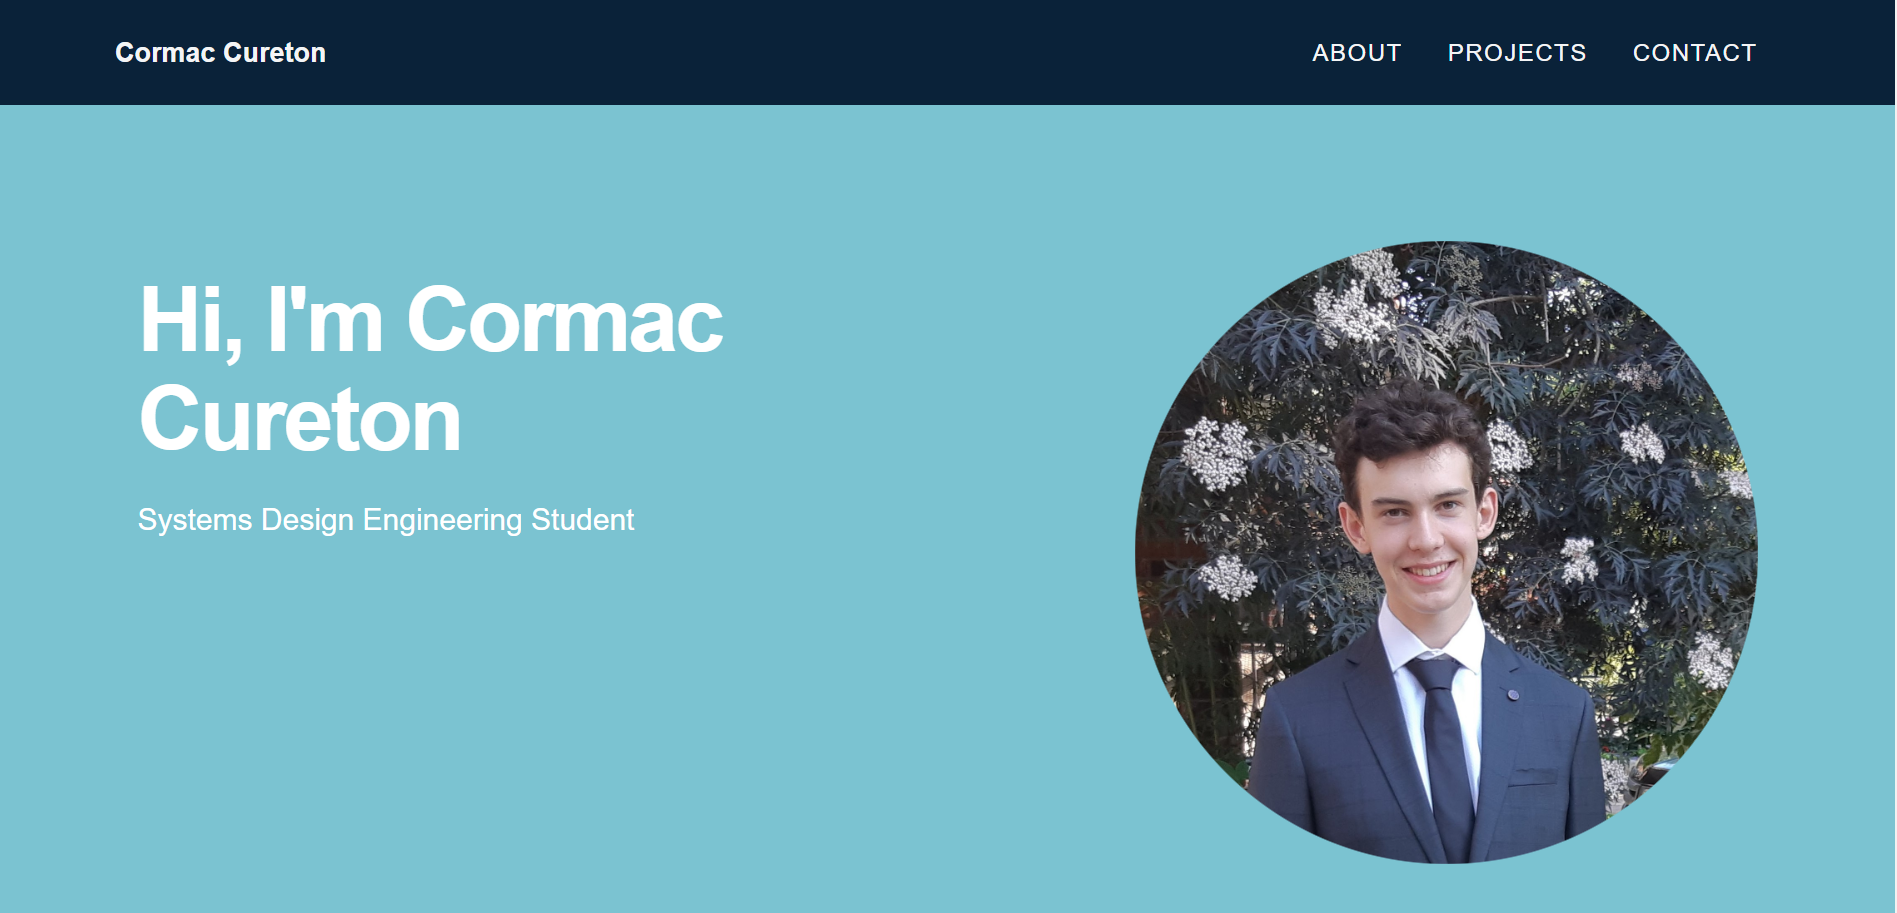
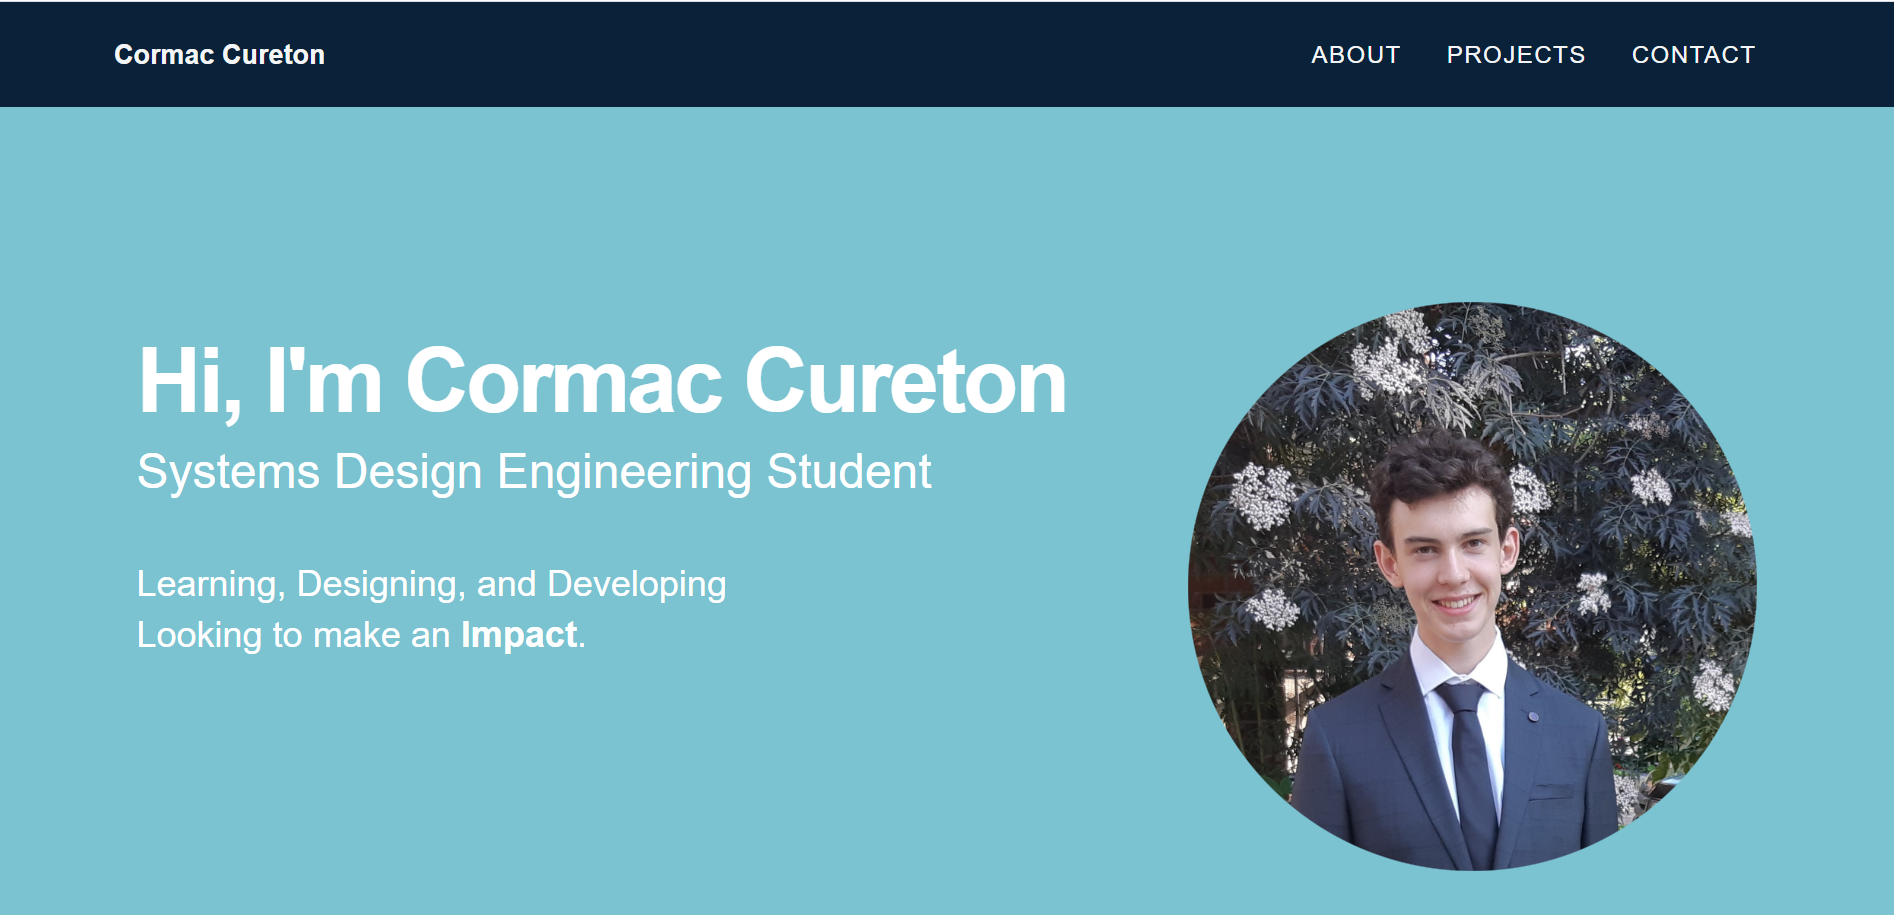
Changed the header layout, updated about me summary, added extra project

diff --git a/personal-website/src/components/projects.js b/personal-website/src/components/projects.js
@@ -1,5 +1,7 @@
 import React, { Component } from 'react'
 import personalWebsite from '../img/Personal-Website.png'
+import metronomeApp from '../img/Metronome App.jpg'
+import baseballJava from '../img/Baseball-Java.png'
 
 export default class Projects extends Component {
     render(){
@@ -24,9 +26,14 @@ export default class Projects extends Component {
                                         <p className = "h5">
                                             A landing place for all professional sites and place to showcase a portfolio of my personal projects.
                                             <br></br><br></br>
-                                            As well, my introduction to any web development. This site gave me an introduction to React and CSS and a familiarity with the Bootstrap framework.
-                                            I started from an HTML + CSS template then adopted it to react, modified the site and CSS from there. 
-                                            In future, I would probably look for a pure Bootstrap template to start or build from scratch.
+                                            I built this site with React and CSS using the BootStrap Framework. Started with a HTML + CSS template then
+                                            adapted it to React and modified the content, layout, and styling.
+                                            <br></br><br></br>
+                                            Take a look at the final product
+                                            <a className = "page-scroll" href = "#header"> here </a>
+                                            or look at the  
+                                            <a href ="https://github.com/Cormac-C/Personal-Website" target="_blank"> code </a>
+                                            behind the scenes
                                         </p>
                                     </div>
                                 </div>
@@ -48,18 +55,56 @@ export default class Projects extends Component {
                                 <div className = "col-md-4">
                                     <div className = "project-text">
                                         <p className = "h5">
-                                            An android app with the features I want blah blah blah.
+                                            A Metronome app with tap-tempo functionality. The tempo (speed) is calculated based on the spacing between a user tapping on a button.
                                             <br></br><br></br>
-                                            Android studio java backend etc. multi-threading...
+                                            I had written the main functionality as a Java applet with a Swing GUI. I adapted it to an Android App using Android Studio as an oppurtunity to learn about mobile development.
+                                            Note: This project is still in progress, I am working on handling the audio in a separate thread so that the UI stays responsive while audio plays.
+                                            <br></br><br></br>
+                                            Take a look at the 
+                                            <a href ="https://github.com/Cormac-C/Metronome-App" target="_blank"> code </a>
+                                            in progress, final product will be added once I reach my minimum viable product.
                                         </p>
                                     </div>
                                 </div>
                                 <div className = "col-md-5">
-                                    <img src = {personalWebsite} class = "img-responsive" alt = "Website Screenshot"/>
+                                    <div className = "project-image">
+                                        <img src = {metronomeApp} class = "img-responsive" alt = "Android Application Screenshot"/>
+                                    </div>    
                                 </div>
                             </div>
                         </div>
                     </div>
+
+                    <div className = "card-colour-a">
+                        <div className = "container">
+                            <div className = "row">
+                                <div className = "col-md-3">
+                                    <p className = "project-title">
+                                        Baseball Team Manager
+                                    </p>
+                                </div>
+                                <div className = "col-md-4">
+                                    <div className = "project-text">
+                                        <p className = "h5">
+                                            A Baseball Management program which tracks a roster of players, their statistics, and makes data driven lineup recommendations.
+                                            <br></br><br></br>
+                                            I built this program with Java using Object Oriented Programming techniques including inheiritance and polymorphism.
+                                            The program also supports reading and writing to a csv in order to save information.
+                                            <br></br><br></br>
+                                            Take a look at the
+                                            <a href ="https://github.com/Cormac-C/Baseball-Team-Manager" target="_blank"> code here</a>
+                                            .
+                                        </p>
+                                    </div>
+                                </div>
+                                <div className = "col-md-5">
+                                    <img src = {baseballJava} class = "img-responsive" alt = "Java App Output"/>
+                                </div>
+                            </div>
+                        </div>
+                    </div>
+
+
                 </div>
             </div>
         )

diff --git a/personal-website/src/components/about.js b/personal-website/src/components/about.js
@@ -13,15 +13,18 @@ export default class About extends Component {
                     <div className = "row">
                         <div class = "col-md-8 col-md-offset-2">
                             <div class = "about-text">
-                                <p>I like to learn and explore technologies then implement them so that they have real impact on real people’s lives. 
-                                    I am motivated by building solutions in the real world that combine technical knowledge and innovation with strong design and a user-focus.</p>
-                                <p>Some languages that I’ve used are Java, C++, JavaScript, and CSS. 
-                                    Some other technologies I’ve explored are React, Git, Android Studio, Bootstrap, and Solidworks. Take a look at what I’ve done with these 
+                                <p> I'm passionate about solving real-world problems with technology. <br></br>
+                                    I combine technical skills with a strong user-centred design perspective to build innovative solutions.</p>
+                                <p> Some languages that I’ve used are Java, C++, JavaScript, and CSS. <br></br>
+                                    Some other technologies I’ve explored are React, Git, Android Studio, Bootstrap, and Solidworks. </p>
+                                <p> Take a look at what I’ve built with these in the past
                                     <a className= "page-scroll" href="#projects"> here</a>.</p>
                                 <p>You might also find me playing guitar, going for a run, or playing baseball or squash.</p>
-                                <p>For more information about my experience, take a look at my Resume below or  
-                                    <a className= "page-scroll" href="#projects"> let's get in touch</a>.</p>    
-                                <p className = "text-center"><a className = "btn btn-primary" href = "#contact"><i class = "fa fa-download"></i> Resume</a></p>
+                                <p>To discuss my experience, take a look at a resume, or chat for any reason, don't hesitate to  
+                                    <a className= "page-scroll" href="#projects"> get in touch</a>.</p>    
+                                
+                                <p className = "text-center"><a className = "btn btn-primary" href = "#contact"><i class = "fa fa-comments"></i> Reach Out</a></p>
+
                             </div>
                         </div>
                     </div>

diff --git a/personal-website/src/components/contact.js b/personal-website/src/components/contact.js
@@ -14,15 +14,15 @@ export default class Contact extends Component {
                         <div className = "col-md-8 col-md-offset-2">
                             <div className = "col-md-4"> 
                                 <a href = "mailto: cormaccureton@gmail.com" target="_blank"> <i className = "fa fa-envelope fa-3x"></i></a>
-                                <p><a href = "mailto: cormaccureton@gmail.com" target="_blank">cormaccureton@gmail.com</a></p>
+                                {/*<p><a href = "mailto: cormaccureton@gmail.com" target="_blank">cormaccureton@gmail.com</a></p>*/}
                             </div>
                             <div className = "col-md-4"> 
                                 <a href ="https://www.linkedin.com/in/cormaccureton/" target="_blank"> <i className =  "fa fa-linkedin-square fa-3x"></i></a>
-                                <p><a href ="https://www.linkedin.com/in/cormaccureton/" target="_blank">linkedin.com/in/cormaccureton/</a></p>
+                                {/*<p><a href ="https://www.linkedin.com/in/cormaccureton/" target="_blank">linkedin.com/in/cormaccureton/</a></p>*/}
                             </div>
                             <div className = "col-md-4"> 
                                 <a href ="https://github.com/Cormac-C" target="_blank"> <i className = "fa fa-github-square fa-3x"></i></a>
-                                <p><a href ="https://github.com/Cormac-C" target="_blank">github.com/Cormac-C</a></p>
+                                {/*<p><a href ="https://github.com/Cormac-C" target="_blank">github.com/Cormac-C</a></p>*/}
                             </div>
                         </div>
                     </div>

diff --git a/personal-website/src/css/formats.css b/personal-website/src/css/formats.css
@@ -108,17 +108,28 @@ p.intro {
 	letter-spacing: -2px;
 }
 
+.intro h3 {
+	font-size: 32px;
+	font-weight: 400;
+	margin-top: 10px;
+	margin-bottom: 40px;
+}
 .intro .intro-text {
-    max-width: 65%;
+    max-width: 95%;
 	text-align: left;
 	float: left;
 }
 .intro .intro-text p {
 	font-family: 'Lato', sans-serif;
-	font-size: 20px;
+	font-size: 24px;
 	margin-bottom: 40px;
-	margin-top: 20px;
+	margin-top: 10px;
 	margin-right: 0px;
+}
+
+.intro .intro-text i {
+	color: rgb(255, 255, 255);
+	font-size: 32px;
 }
 
 #header, #about, #projects, #contact{
@@ -148,6 +159,16 @@ header .row {
 	height: auto;
 }
 
+.about-text{
+	font-size: 18px;
+}
+
+#about .btn{
+	/* padding: 8px 16px; */
+	font-size: 18px;
+	border: 2px solid transparent;
+}
+
 .container {
     padding-right: 15px;
     padding-left: 15px;
@@ -171,7 +192,7 @@ header .row {
 	line-height: 20px;
 } 
 
-.project-title{
+p.project-title{
 	margin-top: 5%;
 	margin-bottom: 5%;
 	font-size: 24px;
@@ -200,6 +221,7 @@ header .row {
 	color: #656c6deb;
 	font-size: 12px;
 	line-height: 1;
+	text-align: center;
 }
 
 .about-text i{
@@ -211,6 +233,20 @@ img.img-responsive {
     margin-bottom: 10%;
 }
 
+div #footer{
+	padding-top: 30px;
+}
+
+.project-image{
+	height: 400px;
+	margin: 0 auto;
+}
+
+.project-image img{
+	max-height: 80%;
+}
+
 i{
 	color: #0A2239;
+	
 }

diff --git a/personal-website/src/components/header.js b/personal-website/src/components/header.js
@@ -9,10 +9,15 @@ export default class Header extends Component {
                     <div className = "intro">
                         <div className = "container">
                             <div className = "row">
-                                <div className = "col-lg-7">
+                                <div className = "col-lg-8">
                                     <div className = "intro-text">
                                         <h1>Hi, I'm <span class = "name"> Cormac Cureton</span></h1>
-                                        <p>Systems Design Engineering Student</p>              
+                                        <h3>Systems Design Engineering Student</h3>
+                                        <p> 
+                                            Learning, Designing, and Developing
+                                            <br></br> 
+                                            Looking to make an <b>Impact</b>.
+                                        </p>         
                                     </div> 
                                 </div>
                                 <div className = "col-lg-5">
